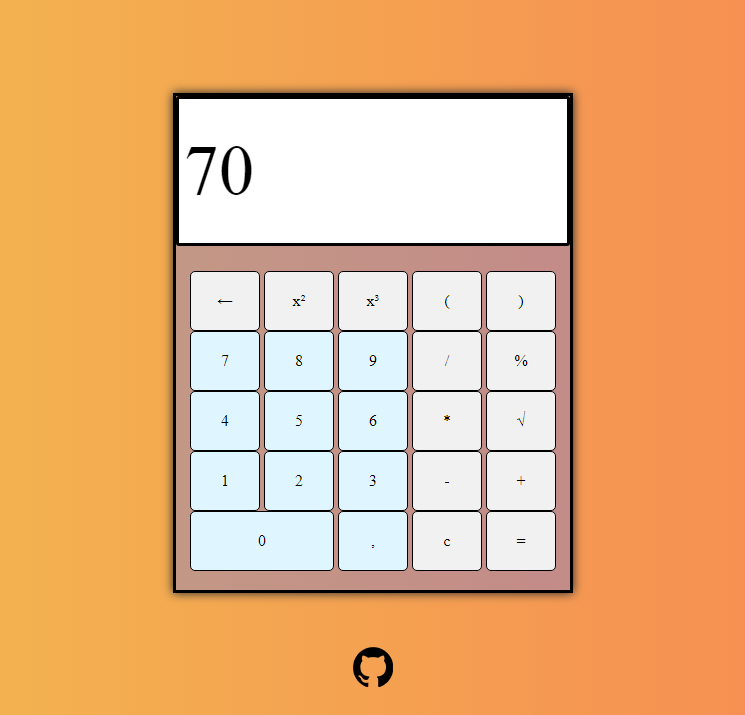
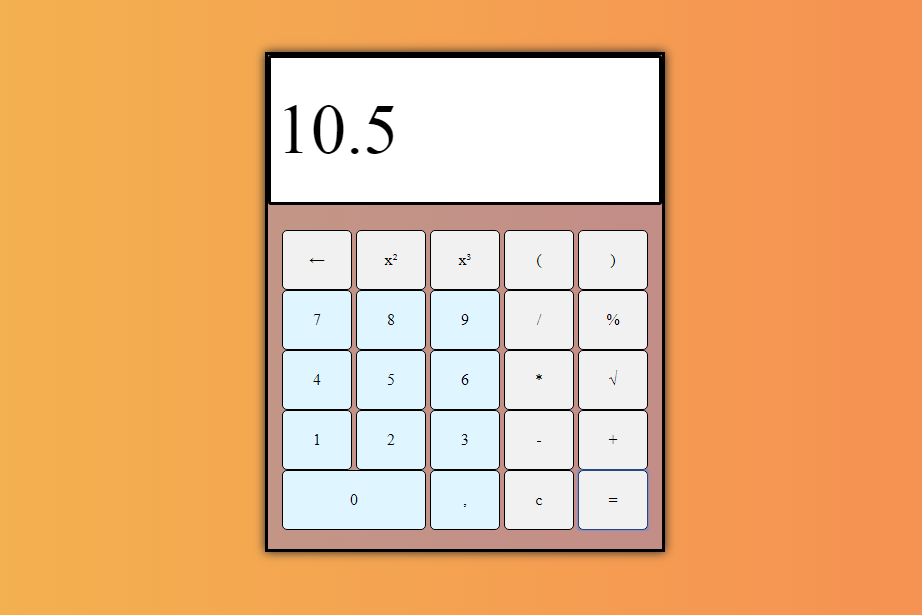
added description and changed screenshot

Changed region(s): [[0.2161, 0.0618, 0.8027, 0.9577]]

diff --git a/README.md b/README.md
@@ -1,5 +1,12 @@
 # Calculator-V2.0
 
+This calculator allows you to perform mathematical operations. The calculator is adapted for mobile devices.
+
+## Launching
+1. Download and unzip the repository.
+2. Open calculator-v2.0-master folder.
+3. Launch index.html
+
 ## Screenshot
 ![screenshot](https://github.com/AstR0x/calculator-v2.0/blob/master/img/screenshots/screenshot.png)
 
